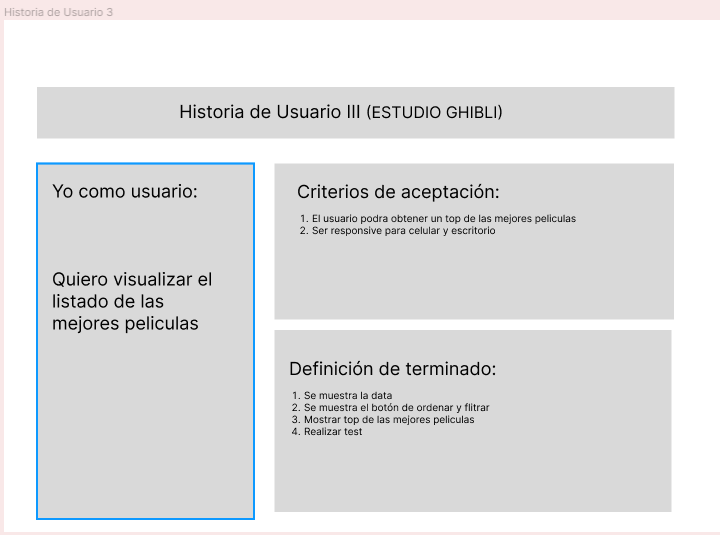
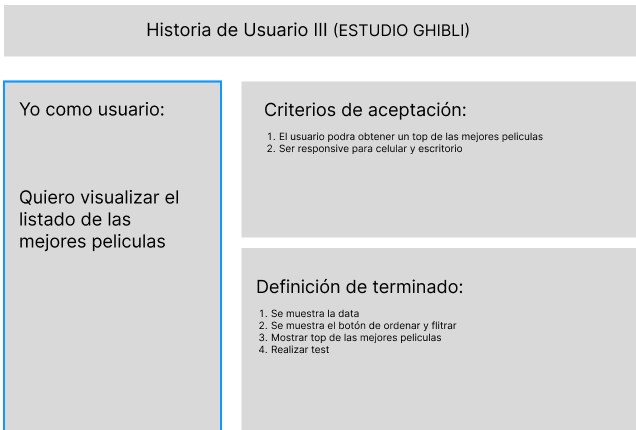
imagenes readme

diff --git a/README.md b/README.md
@@ -12,4 +12,4 @@
 
 ## PROTOTIPO DE ALTA FIDELIDAD
 
-<img width="400" alt="prototipos_de_alta" src="https://github.com/MODAOZUSH/BOG005-data-lovers/blob/main/PROTOTIPODEALTA.jpg"> <img width="250" height="350" alt="prototipos_de_alta" src="https://github.com/MODAOZUSH/BOG005-data-lovers/blob/main/PROTORIPOMOBILE.jpg">
+<img width="400" alt="prototipos_de_alta" src="https://github.com/MODAOZUSH/BOG005-data-lovers/blob/main/PROTOTIPODEALTA.jpg"> <img width="250" height="450" alt="prototipos_de_alta" src="https://github.com/MODAOZUSH/BOG005-data-lovers/blob/main/PROTORIPOMOBILE.jpg">
